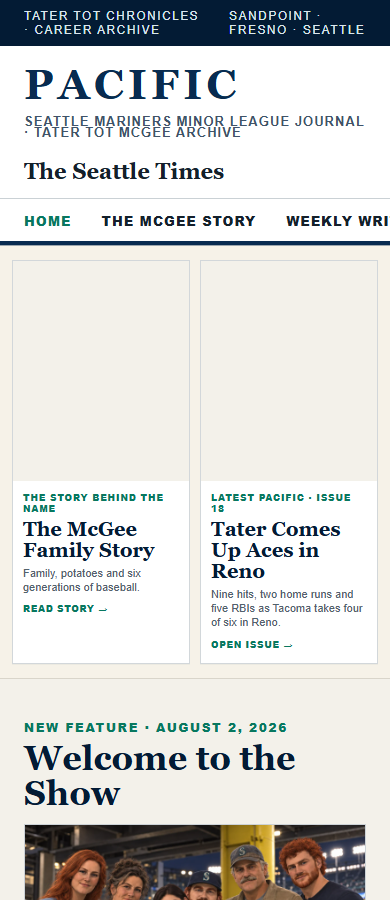
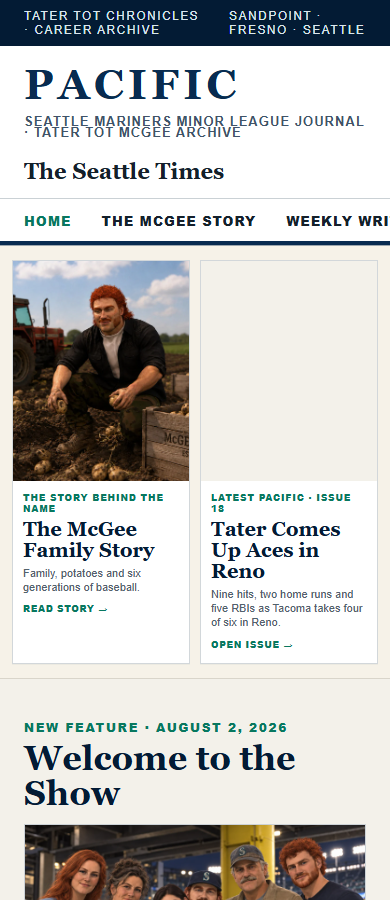
fixed mastheads

Changed region(s): [[0.0308, 0.28, 0.4923, 0.56]]

diff --git a/call-up.html b/call-up.html
@@ -8,4 +8,4 @@ body{background:#eee8da}
 @media(max-width:700px){.storyhero .cover>div{padding:24px 18px!important}.storyhero h1{font-size:34px!important}.feature-article{padding:28px 20px 48px}}
 </style></head><body>
 <header class="mast"><div class="mastrow"><div><a class="sitebrand" href="index.html">TATER TOT CHRONICLES</a><div class="tag">A family and baseball archive</div></div><a class="pacific-logo-link" href="index.html" aria-label="Tater Tot Chronicles home"><img class="pacific-logo-img" src="assets/pacific-logo.png" alt="PACIFIC"></a></div></header>
-<nav class="nav"><div class="navrow"><a class="" href="index.html">Home</a><a class="" href="mcgee-story.html">The McGee Story</a><a class="" href="archive.html">Weekly Write-Ups</a><a class="" href="recaps.html">Monthly Recaps</a><a class="active" href="features.html" aria-current="page">Features</a><a href="stats.html">Stats</a><a class="" href="career.html">Career Milestones</a><a class="" href="photos.html">Photos</a></div></nav><main><section class="storyhero"><div class="cover"><div style="background:white;border:1px solid #d5cfc1;padding:28px 28px 24px;text-align:center"><img src="assets/pacific-logo.png" alt="PACIFIC" style="display:block;width:440px;max-width:82%;height:auto;margin:0 auto 10px"><div style="font-family:Georgia,serif;color:#52606a;font-style:italic">The Seattle Times Sunday Magazine · <time datetime="2026-08-02">August 2, 2026</time></div><h1 style="font-family:Georgia,serif;color:#111;font-size:42px;margin:20px 0 8px">Welcome to the Show</h1><p style="font-family:Georgia,serif;font-size:18px;margin:0 auto;max-width:760px">In his first professional season, No. 1 overall pick Tater Tot McGee has gone from Triple-A right into the middle of an MLB pennant race.</p><div class="kicker" style="margin-top:18px">By Ryan Cooney</div></div></div><figure class="feature-photo call-up-lead"><a href="assets/call-up-mlb-family.webp"><img src="assets/call-up-mlb-family.webp" alt="McGee with his family and girlfriend after his first big-league game." width="1536" height="1024" fetchpriority="high"></a><figcaption>McGee with his family and girlfriend after his first big-league game.</figcaption></figure></section><article class="feature-article"><p>The last time that I met with Tater Tot McGee, we were on his family&#x27;s 164-year-old potato farm. It was the week before the 2025 MLB Draft, and he had just come off of winning the College World Series with Fresno State. He had been here before, two years earlier in 2023, when he was drafted 27th overall by the New York Yankees.</p><p>A few things were different this time. He was to go toward the top of the first round, he didn’t have college waiting for him, and there was a very good chance that he would be drafted by his beloved Seattle Mariners. This time, everything happened like some surreal dream. Not only was he drafted by the Mariners, but he also went No. 1 overall. Being the No. 1 pick comes with tremendously high expectations.</p><p>Tater’s rapid ascent through Seattle’s farm system has been exceptionally quick, even for someone with No. 1 pick expectations. It started before he took his first pro at-bat. The Mariners raised more than a few eyebrows when they fast-tracked Tater past the lower levels of their system right to Double-A Arkansas. Tater rewarded their trust by playing well enough to get promoted to Triple-A Tacoma on June 9. Starting your career in Double-A is abnormal. Being called up to Triple-A in just two months is unbelievably fast. Making it to the majors in your first year is Rickey Henderson-on-the-basepaths levels of fast. In fact, fewer than 2% of drafted players make the majors in their first year. The last time the Mariners promoted a college position player to the majors this quickly was 13 years ago, when they did it with Mike Zunino in 2013. It seems as if Tater has been able to handle the pressure thus far, but the Show is a whole other story.</p><p>So as he sits on the cusp of achieving another dream, I sit down with Tater once again. We did meet on a farm again, just not his family’s potato farm, but a clubhouse in Arkansas on the Mariners’ farm.</p><figure class="feature-photo"><a href="assets/call-up-fans.webp"><img src="assets/call-up-fans.webp" alt="Soon is now." width="1294" height="728" loading="lazy"></a><figcaption>Soon is now.</figcaption></figure><h2>The call to Seattle</h2><p class="question"><strong>PACIFIC:</strong> What was your initial thought when you were told that you would be called up?</p><p class="answer"><strong>TATER:</strong> At first I thought Coach was joking with me. So everyone in the clubhouse got excited before I did. When it finally hit me, saying I was shocked would be a vast understatement. Then I thought about my parents and how much they have sacrificed to get me to this point.</p><p class="question"><strong>PACIFIC:</strong> Were your parents your first phone call?</p><p class="answer"><strong>TATER:</strong> Oh yeah, I couldn’t get my phone out of my pocket fast enough.</p><p class="question"><strong>PACIFIC:</strong> What happened on the call?</p><p class="answer"><strong>TATER:</strong> Well, in a surprise to no one, they were watching the M’s. I called Mom’s phone, and she put me on speaker for Dad. They were so happy when I told them. When I thanked them for everything they had done for me, all three of us cried.</p><p class="question"><strong>PACIFIC:</strong> Well, I hope the next call was to the girlfriend.</p><p class="answer"><strong>TATER:</strong> (He laughs.) Oh yeah. No chance I was going to get away with calling anybody else first. Plus, my parents had told me that they would tell everybody else for me. The people who know me well knew not to call but to text because I hate the phone. When I woke up, I can’t remember how many notifications I had.</p><p class="question"><strong>PACIFIC:</strong> You went through the minors pretty quick. Do you think you are ready, or do you feel like you need a little more time to get acclimated to being a pro?</p><p class="answer"><strong>TATER:</strong> I don’t think it matters if I think I’m ready. The Mariners think I am, so I must be.</p><p class="question"><strong>PACIFIC:</strong> What did the Mariners say your role would be?</p><p class="answer"><strong>TATER:</strong> They told me that I will be the starting third baseman, which is great, but I’m not stupid. I know that I am joining a team in a pennant race. I know that means I will be on a much shorter leash than I would have been if I were going to a bad team.</p><p class="question"><strong>PACIFIC:</strong> Talking about that pennant race, do you feel any added pressure to produce right away?</p><p class="answer"><strong>TATER:</strong> I know that I am probably supposed to say no, but that would be a lie. I do indeed feel the added pressure. I don’t think that I would be human if I didn’t.</p><p class="question"><strong>PACIFIC:</strong> How do you think you will handle it?</p><p class="answer"><strong>TATER:</strong> I really think that I can. This isn’t the first time in my life that I have felt the added pressure of chasing a championship.</p><p class="question"><strong>PACIFIC:</strong> Coming into a new clubhouse midseason can be pretty intimidating. How do you think you will adjust to that?</p><p class="answer"><strong>TATER:</strong> It isn’t going to be easy. None of this is going to be easy. I may be starting, but I know that I am the low guy on the totem pole.</p><p class="question"><strong>PACIFIC:</strong> How much easier do you think having Brian O’Keefe and Rhylan Thomas already here will make the transition, especially since you played with both of them earlier this season?</p><p class="answer"><strong>TATER:</strong> A lot of people would think, “How much could you have bonded with someone that you have played with for a few months?” Being in the minors and riding those buses give you ample time to bond. Having them there has already eased my anxiety a little bit. I know that not only do I have two guys to talk to, but they are also in my same situation. They really are great people.</p><p class="question"><strong>PACIFIC:</strong> That’s great. You already pointed out the pennant race. Have you been keeping close tabs on the big club this year?</p><p class="answer"><strong>TATER:</strong> We are all obviously aware of where they are in the standings. That is about it, though. I have been so focused on playing every day that I haven’t really had the time to check on them daily. I know that my family will be shocked to hear this. I haven’t watched one full game this year.</p><p class="question"><strong>PACIFIC:</strong> How many people are going to make it to your debut, and how has the ticket situation been?</p><p class="answer"><strong>TATER:</strong> Since I am debuting on the road in Arlington at the last minute, it will be just the close family and my girlfriend.</p><p class="question"><strong>PACIFIC:</strong> You had a few people come out to your first game in Tacoma, which makes sense since you spent your summers there. Are you expecting the same thing in Seattle?</p><p class="answer"><strong>TATER:</strong> Ummm, I feel like the Seattle turnout will be significantly bigger. The fact that I will be on the road first will give everyone more time to get everything together. My mom has been handling that kind of stuff since my travel ball days. She is great with all of it. I guarantee that she has already contacted the organization asking about tickets. She is a machine.</p><p class="question"><strong>PACIFIC:</strong> Before I go, I have to ask you about the now-infamous hat. Your dad’s old beat-up Mariners cap.</p><p class="answer"><strong>TATER:</strong> (Laughs.) I guess the legend of that hat is out there now. There is no way he will dump it. We have bought him new hats for Father’s Day, his birthday, and Christmas. To be nice, he will wear it for a day or two, but the old one inevitably ends up back on his head. Mom hates it. She has tried hiding it before, and there it is again. At this point, we have stopped even trying. He is going to be buried in it at this point.</p><figure class="feature-photo"><a href="assets/call-up-aa-family.webp"><img src="assets/call-up-aa-family.webp" alt="Tater Tot McGee with his family and girlfriend after his first Double-A game." width="1536" height="1024" loading="lazy"></a><figcaption>Tater Tot McGee with his family and girlfriend after his first Double-A game.</figcaption></figure><p>Tater is going to be tested right away. The first four pitchers he will face are future Hall of Famer Jacob deGrom and the Dodgers trio of Yamamoto, Snell and Glasnow. The Dodgers trio is a combined 32-7, with ERAs of 3.50, 3.50 and 2.60, respectively. I hope Tater can swim, because he is about to enter a deep end full of sharks.</p><figure class="feature-photo"><a href="assets/call-up-tacoma-family.webp"><img src="assets/call-up-tacoma-family.webp" alt="The Tacoma limb of the family tree and Dad in his hat." width="1536" height="1024" loading="lazy"></a><figcaption>The Tacoma limb of the family tree and Dad in his hat.</figcaption></figure><p class="pdf-link"><a class="btn ghost" href="assets/23Call%20up%20feature.pdf">Open Original Magazine · PDF</a></p><p class="source-note">Web edition of the August 2, 2026 PACIFIC feature. Story and captions reproduced from the original magazine.</p><a class="btn" href="features.html">All features →</a></article></main><footer><div class="footrow"><div><strong>Tater Tot Chronicles / PACIFIC</strong><p>Following Tater Tot McGee from family history through professional baseball.</p></div><div class="disclaimer">Tater Tot Chronicles is a fictional fan-created baseball project and is not affiliated with The Seattle Times, Seattle Mariners, MLB or Minor League Baseball.</div></div></footer><script src="site.js"></script></body></html>
+<nav class="nav"><div class="navrow"><a class="" href="index.html">Home</a><a class="" href="mcgee-story.html">The McGee Story</a><a class="" href="archive.html">Weekly Write-Ups</a><a class="" href="recaps.html">Monthly Recaps</a><a class="active" href="features.html" aria-current="page">Features</a><a href="stats.html">Stats</a><a class="" href="career.html">Career Milestones</a><a class="" href="photos.html">Photos</a></div></nav><main><section class="storyhero"><div class="cover"><div style="background:white;border:1px solid #d5cfc1;padding:28px 28px 24px;text-align:center"><img class="feature-masthead" src="assets/callup-masthead.webp" alt="PACIFIC Sunday Magazine" width="1539" height="400" style="display:block;width:100%;max-width:100%;height:auto;border:0;margin:0 auto 18px"><div style="font-family:Georgia,serif;color:#52606a;font-style:italic"><time datetime="2026-08-02">August 2, 2026</time></div><h1 style="font-family:Georgia,serif;color:#111;font-size:42px;margin:20px 0 8px">Welcome to the Show</h1><p style="font-family:Georgia,serif;font-size:18px;margin:0 auto;max-width:760px">In his first professional season, No. 1 overall pick Tater Tot McGee has gone from Triple-A right into the middle of an MLB pennant race.</p><div class="kicker" style="margin-top:18px">By Ryan Cooney</div></div></div><figure class="feature-photo call-up-lead"><a href="assets/call-up-mlb-family.webp"><img src="assets/call-up-mlb-family.webp" alt="McGee with his family and girlfriend after his first big-league game." width="1536" height="1024" fetchpriority="high"></a><figcaption>McGee with his family and girlfriend after his first big-league game.</figcaption></figure></section><article class="feature-article"><p>The last time that I met with Tater Tot McGee, we were on his family&#x27;s 164-year-old potato farm. It was the week before the 2025 MLB Draft, and he had just come off of winning the College World Series with Fresno State. He had been here before, two years earlier in 2023, when he was drafted 27th overall by the New York Yankees.</p><p>A few things were different this time. He was to go toward the top of the first round, he didn’t have college waiting for him, and there was a very good chance that he would be drafted by his beloved Seattle Mariners. This time, everything happened like some surreal dream. Not only was he drafted by the Mariners, but he also went No. 1 overall. Being the No. 1 pick comes with tremendously high expectations.</p><p>Tater’s rapid ascent through Seattle’s farm system has been exceptionally quick, even for someone with No. 1 pick expectations. It started before he took his first pro at-bat. The Mariners raised more than a few eyebrows when they fast-tracked Tater past the lower levels of their system right to Double-A Arkansas. Tater rewarded their trust by playing well enough to get promoted to Triple-A Tacoma on June 9. Starting your career in Double-A is abnormal. Being called up to Triple-A in just two months is unbelievably fast. Making it to the majors in your first year is Rickey Henderson-on-the-basepaths levels of fast. In fact, fewer than 2% of drafted players make the majors in their first year. The last time the Mariners promoted a college position player to the majors this quickly was 13 years ago, when they did it with Mike Zunino in 2013. It seems as if Tater has been able to handle the pressure thus far, but the Show is a whole other story.</p><p>So as he sits on the cusp of achieving another dream, I sit down with Tater once again. We did meet on a farm again, just not his family’s potato farm, but a clubhouse in Arkansas on the Mariners’ farm.</p><figure class="feature-photo"><a href="assets/call-up-fans.webp"><img src="assets/call-up-fans.webp" alt="Soon is now." width="1294" height="728" loading="lazy"></a><figcaption>Soon is now.</figcaption></figure><h2>The call to Seattle</h2><p class="question"><strong>PACIFIC:</strong> What was your initial thought when you were told that you would be called up?</p><p class="answer"><strong>TATER:</strong> At first I thought Coach was joking with me. So everyone in the clubhouse got excited before I did. When it finally hit me, saying I was shocked would be a vast understatement. Then I thought about my parents and how much they have sacrificed to get me to this point.</p><p class="question"><strong>PACIFIC:</strong> Were your parents your first phone call?</p><p class="answer"><strong>TATER:</strong> Oh yeah, I couldn’t get my phone out of my pocket fast enough.</p><p class="question"><strong>PACIFIC:</strong> What happened on the call?</p><p class="answer"><strong>TATER:</strong> Well, in a surprise to no one, they were watching the M’s. I called Mom’s phone, and she put me on speaker for Dad. They were so happy when I told them. When I thanked them for everything they had done for me, all three of us cried.</p><p class="question"><strong>PACIFIC:</strong> Well, I hope the next call was to the girlfriend.</p><p class="answer"><strong>TATER:</strong> (He laughs.) Oh yeah. No chance I was going to get away with calling anybody else first. Plus, my parents had told me that they would tell everybody else for me. The people who know me well knew not to call but to text because I hate the phone. When I woke up, I can’t remember how many notifications I had.</p><p class="question"><strong>PACIFIC:</strong> You went through the minors pretty quick. Do you think you are ready, or do you feel like you need a little more time to get acclimated to being a pro?</p><p class="answer"><strong>TATER:</strong> I don’t think it matters if I think I’m ready. The Mariners think I am, so I must be.</p><p class="question"><strong>PACIFIC:</strong> What did the Mariners say your role would be?</p><p class="answer"><strong>TATER:</strong> They told me that I will be the starting third baseman, which is great, but I’m not stupid. I know that I am joining a team in a pennant race. I know that means I will be on a much shorter leash than I would have been if I were going to a bad team.</p><p class="question"><strong>PACIFIC:</strong> Talking about that pennant race, do you feel any added pressure to produce right away?</p><p class="answer"><strong>TATER:</strong> I know that I am probably supposed to say no, but that would be a lie. I do indeed feel the added pressure. I don’t think that I would be human if I didn’t.</p><p class="question"><strong>PACIFIC:</strong> How do you think you will handle it?</p><p class="answer"><strong>TATER:</strong> I really think that I can. This isn’t the first time in my life that I have felt the added pressure of chasing a championship.</p><p class="question"><strong>PACIFIC:</strong> Coming into a new clubhouse midseason can be pretty intimidating. How do you think you will adjust to that?</p><p class="answer"><strong>TATER:</strong> It isn’t going to be easy. None of this is going to be easy. I may be starting, but I know that I am the low guy on the totem pole.</p><p class="question"><strong>PACIFIC:</strong> How much easier do you think having Brian O’Keefe and Rhylan Thomas already here will make the transition, especially since you played with both of them earlier this season?</p><p class="answer"><strong>TATER:</strong> A lot of people would think, “How much could you have bonded with someone that you have played with for a few months?” Being in the minors and riding those buses give you ample time to bond. Having them there has already eased my anxiety a little bit. I know that not only do I have two guys to talk to, but they are also in my same situation. They really are great people.</p><p class="question"><strong>PACIFIC:</strong> That’s great. You already pointed out the pennant race. Have you been keeping close tabs on the big club this year?</p><p class="answer"><strong>TATER:</strong> We are all obviously aware of where they are in the standings. That is about it, though. I have been so focused on playing every day that I haven’t really had the time to check on them daily. I know that my family will be shocked to hear this. I haven’t watched one full game this year.</p><p class="question"><strong>PACIFIC:</strong> How many people are going to make it to your debut, and how has the ticket situation been?</p><p class="answer"><strong>TATER:</strong> Since I am debuting on the road in Arlington at the last minute, it will be just the close family and my girlfriend.</p><p class="question"><strong>PACIFIC:</strong> You had a few people come out to your first game in Tacoma, which makes sense since you spent your summers there. Are you expecting the same thing in Seattle?</p><p class="answer"><strong>TATER:</strong> Ummm, I feel like the Seattle turnout will be significantly bigger. The fact that I will be on the road first will give everyone more time to get everything together. My mom has been handling that kind of stuff since my travel ball days. She is great with all of it. I guarantee that she has already contacted the organization asking about tickets. She is a machine.</p><p class="question"><strong>PACIFIC:</strong> Before I go, I have to ask you about the now-infamous hat. Your dad’s old beat-up Mariners cap.</p><p class="answer"><strong>TATER:</strong> (Laughs.) I guess the legend of that hat is out there now. There is no way he will dump it. We have bought him new hats for Father’s Day, his birthday, and Christmas. To be nice, he will wear it for a day or two, but the old one inevitably ends up back on his head. Mom hates it. She has tried hiding it before, and there it is again. At this point, we have stopped even trying. He is going to be buried in it at this point.</p><figure class="feature-photo"><a href="assets/call-up-aa-family.webp"><img src="assets/call-up-aa-family.webp" alt="Tater Tot McGee with his family and girlfriend after his first Double-A game." width="1536" height="1024" loading="lazy"></a><figcaption>Tater Tot McGee with his family and girlfriend after his first Double-A game.</figcaption></figure><p>Tater is going to be tested right away. The first four pitchers he will face are future Hall of Famer Jacob deGrom and the Dodgers trio of Yamamoto, Snell and Glasnow. The Dodgers trio is a combined 32-7, with ERAs of 3.50, 3.50 and 2.60, respectively. I hope Tater can swim, because he is about to enter a deep end full of sharks.</p><figure class="feature-photo"><a href="assets/call-up-tacoma-family.webp"><img src="assets/call-up-tacoma-family.webp" alt="The Tacoma limb of the family tree and Dad in his hat." width="1536" height="1024" loading="lazy"></a><figcaption>The Tacoma limb of the family tree and Dad in his hat.</figcaption></figure><p class="pdf-link"><a class="btn ghost" href="assets/23Call%20up%20feature.pdf">Open Original Magazine · PDF</a></p><p class="source-note">Web edition of the August 2, 2026 PACIFIC feature. Story and captions reproduced from the original magazine.</p><a class="btn" href="features.html">All features →</a></article></main><footer><div class="footrow"><div><strong>Tater Tot Chronicles / PACIFIC</strong><p>Following Tater Tot McGee from family history through professional baseball.</p></div><div class="disclaimer">Tater Tot Chronicles is a fictional fan-created baseball project and is not affiliated with The Seattle Times, Seattle Mariners, MLB or Minor League Baseball.</div></div></footer><script src="site.js"></script></body></html>

diff --git a/mcgee-story.html b/mcgee-story.html
@@ -1,6 +1,6 @@
 <!doctype html><html lang="en"><head><meta charset="utf-8"><meta name="viewport" content="width=device-width,initial-scale=1"><title>The McGee Story | Tater Tot Chronicles</title><meta name="description" content="Tater Tot Chronicles — the family history and baseball career archive of Tater Tot McGee."><link rel="icon" type="image/png" href="assets/favicon.png"><link rel="stylesheet" href="styles.css"></head><body><div class="topline"><div class="bar"><span>Tater Tot Chronicles · A PACIFIC Career Archive</span><span>Sandpoint · Fresno · Seattle</span></div></div>
 <header class="mast"><div class="mastrow"><div><a class="sitebrand" href="index.html">TATER TOT CHRONICLES</a><div class="tag">A family and baseball archive</div></div><a class="pacific-logo-link" href="index.html" aria-label="Tater Tot Chronicles home"><img class="pacific-logo-img" src="assets/pacific-logo.png" alt="PACIFIC"></a></div></header>
-<nav class="nav"><div class="navrow"><a class="" href="index.html">Home</a><a class="active" href="mcgee-story.html">The McGee Story</a><a class="" href="archive.html">Weekly Write-Ups</a><a class="" href="recaps.html">Monthly Recaps</a><a class="" href="features.html">Features</a><a href="stats.html">Stats</a><a class="" href="career.html">Career Milestones</a><a class="" href="photos.html">Photos</a></div></nav><div class="progress" id="progress"></div><section class="storyhero"><div class="cover"><div style="background:white;border:1px solid #d5cfc1;padding:28px 28px 24px;text-align:center"><img src="assets/pacific-logo.png" alt="PACIFIC" style="display:block;width:440px;max-width:82%;height:auto;margin:0 auto 10px"><div style="font-family:Georgia,serif;color:#52606a;font-style:italic">The Seattle Times Sunday Magazine · Summer 2025</div><h1 style="font-family:Georgia,serif;color:#111;font-size:42px;margin:20px 0 8px">Tater Tot McGee: A Family Story</h1><p style="font-family:Georgia,serif;font-size:18px;margin:0 auto;max-width:760px">Discover how an Irish famine, a potato farm in Idaho, and six generations of baseball have influenced the making of baseball's next top draft pick.</p><div class="kicker" style="margin-top:18px">By Ryan Cooney</div></div></div><figure class="storyphoto"><img src="assets/family-farm.jpg" alt="Tater Tot McGee on the McGee family farm"><figcaption>Tater Tot McGee works on the McGee family farm in Sandpoint, Idaho.</figcaption></figure></section><div class="story-shell"><article class="article"><div class="kicker">PACIFIC Sunday Magazine · Web edition</div><h1 class="h1">Tater Tot McGee:<br>A Family Story</h1><p class="dek">The complete family feature, rebuilt for the web so it can be read normally on any screen.</p><details class="mobilejump"><summary>Jump to a chapter</summary><div class="jumpin"><a href="#famine">1848–1850 · Irish Famine Origins</a><a href="#west">1850–1861 · Move West</a><a href="#farm">1860s–1910 · Potato Legacy</a><a href="#education">1886–1894 · Education</a><a href="#stephen">1861–1895 · Stephen & Baseball</a><a href="#sandpoint-baseball">1895–1930s · Sandpoint Baseball</a><a href="#nickname">2004–2022 · “Tater Tot”</a><a href="#draft-path">2022–2025 · Draft Path</a><a href="#present">One Day Before the Draft</a><a href="#conclusion">Conclusion</a></div></details>
+<nav class="nav"><div class="navrow"><a class="" href="index.html">Home</a><a class="active" href="mcgee-story.html">The McGee Story</a><a class="" href="archive.html">Weekly Write-Ups</a><a class="" href="recaps.html">Monthly Recaps</a><a class="" href="features.html">Features</a><a href="stats.html">Stats</a><a class="" href="career.html">Career Milestones</a><a class="" href="photos.html">Photos</a></div></nav><div class="progress" id="progress"></div><section class="storyhero"><div class="cover"><div style="background:#f1ebe2;border:1px solid #d5cfc1;padding:28px 28px 24px;text-align:center"><img class="feature-masthead" src="assets/family-masthead.webp" alt="PACIFIC Sunday Magazine" width="1530" height="342" style="display:block;width:100%;max-width:100%;height:auto;border:0;margin:0 auto 18px"><div style="font-family:Georgia,serif;color:#52606a;font-style:italic">Summer 2025</div><h1 style="font-family:Georgia,serif;color:#111;font-size:42px;margin:20px 0 8px">Tater Tot McGee: A Family Story</h1><p style="font-family:Georgia,serif;font-size:18px;margin:0 auto;max-width:760px">Discover how an Irish famine, a potato farm in Idaho, and six generations of baseball have influenced the making of baseball's next top draft pick.</p><div class="kicker" style="margin-top:18px">By Ryan Cooney</div></div></div><figure class="storyphoto"><img src="assets/family-farm.jpg" alt="Tater Tot McGee on the McGee family farm"><figcaption>Tater Tot McGee works on the McGee family farm in Sandpoint, Idaho.</figcaption></figure></section><div class="story-shell"><article class="article"><div class="kicker">PACIFIC Sunday Magazine · Web edition</div><h1 class="h1">Tater Tot McGee:<br>A Family Story</h1><p class="dek">The complete family feature, rebuilt for the web so it can be read normally on any screen.</p><details class="mobilejump"><summary>Jump to a chapter</summary><div class="jumpin"><a href="#famine">1848–1850 · Irish Famine Origins</a><a href="#west">1850–1861 · Move West</a><a href="#farm">1860s–1910 · Potato Legacy</a><a href="#education">1886–1894 · Education</a><a href="#stephen">1861–1895 · Stephen & Baseball</a><a href="#sandpoint-baseball">1895–1930s · Sandpoint Baseball</a><a href="#nickname">2004–2022 · “Tater Tot”</a><a href="#draft-path">2022–2025 · Draft Path</a><a href="#present">One Day Before the Draft</a><a href="#conclusion">Conclusion</a></div></details>
 <p>Once you hear the name “Tater Tot” McGee, you expect a silly nickname. Then you meet him and discover it’s something much bigger. It’s a name rooted in Irish tragedy, Idaho potato farming, and more than 160 years of baseball history.</p><p><strong>To understand the nickname is to understand the McGee family story.</strong></p>
 <h2 id="famine">The Irish Famine Origins <small>(1848–1850)</small></h2><figure><img src="assets/famine-dublin.jpg" alt="Famine memorial in Dublin" loading="lazy" decoding="async"><figcaption>Famine by Rowan Gillespie in Dublin, Ireland.</figcaption></figure><p>This story starts in 1848 in Skibbereen, County Cork, Ireland, at the height of the <a class="source-link" href="https://www.britannica.com/event/Great-Famine-Irish-history" target="_blank" rel="noopener noreferrer">Irish Potato Famine</a>. About one million people died from starvation, typhus, and other famine-related diseases. The famine also led to a mass emigration of Irish people.</p><p>The McGee family was hit particularly hard.</p><p>McGee’s six-times-great-grandparents, Seamus and Siobhán, not only lost their farm but, more tragically, lost three of their seven children. Five-year-old twins Sheila and Sinead contracted typhus and died. Six months later, they lost two-year-old Sean to cholera.</p><p>In 1849, they had no choice but to leave Ireland. They arrived in the United States in 1850, just six of the estimated 200,000 Irish immigrants that arrived that year.</p>
 <h2 id="west">New York Years and the Move West <small>(1850–1861)</small></h2><figure><img src="assets/historic-sandpoint.jpg" alt="Historic Sandpoint" loading="lazy" decoding="async"><figcaption><a class="source-link" href="https://www.sandpoint.com/community/history-here-there-bonner-county2.php" target="_blank" rel="noopener noreferrer">Historic Sandpoint, Idaho.</a></figcaption></figure><p>During their time in New York, Seamus and Siobhán had four more children. With four additional mouths to feed and one on the way and work proving difficult to find, Seamus heard news of gold discoveries in Idaho in early 1861 and saw another opportunity to start over.</p><p>The family left New York in May 1861 and arrived five months later in what would eventually become Bonner County, Idaho.</p><p>They were now a family of 11. During the journey, Siobhán gave birth to their twelfth child, a son named Sullivan.</p><p>Upon arrival, Seamus Sr., Seamus Jr., and Shane all began working in the mining industry. Thanks to the <a class="source-link" href="https://www.archives.gov/milestone-documents/homestead-act" target="_blank" rel="noopener noreferrer">Homestead Act of 1862</a>, the family was able to claim 160 acres of land in what would eventually become Sandpoint.</p>
